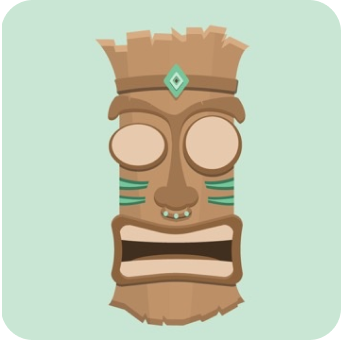
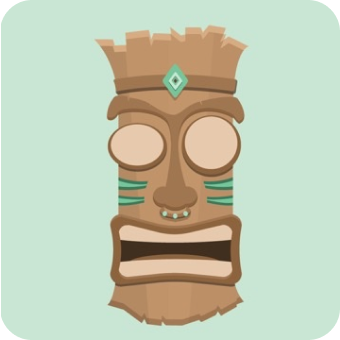
Pushed from Locofy Builder

diff --git a/index.html b/index.html
@@ -74,21 +74,21 @@
       <div class="frame-parent">
         <img class="frame-item" alt="" src="./public/frame-14621@2x.png" />
 
-        <img class="frame-item" alt="" src="./public/frame-14622@2x.png" />
+        <img class="frame-inner" alt="" src="./public/frame-14622@2x.png" />
 
         <img class="frame-child1" alt="" src="./public/frame-14623@2x.png" />
 
-        <img class="frame-item" alt="" src="./public/frame-14625@2x.png" />
+        <img class="frame-inner" alt="" src="./public/frame-14625@2x.png" />
 
         <img class="frame-child3" alt="" src="./public/frame-14620.svg" />
 
-        <img class="frame-item" alt="" src="./public/frame-14624@2x.png" />
+        <img class="frame-inner" alt="" src="./public/frame-14624@2x.png" />
 
-        <img class="frame-item" alt="" src="./public/frame-14626@2x.png" />
+        <img class="frame-inner" alt="" src="./public/frame-14626@2x.png" />
 
-        <img class="frame-item" alt="" src="./public/frame-14627@2x.png" />
+        <img class="frame-inner" alt="" src="./public/frame-14627@2x.png" />
 
-        <img class="frame-child7" alt="" src="./public/frame-14628@2x.png" />
+        <img class="frame-item" alt="" src="./public/frame-14628@2x.png" />
       </div>
     </div>
 
@@ -99,14 +99,14 @@
           window.open("https://wondersofwildlife.org/volunteer/");
         });
       }
-      
+
       var frameIcon = document.getElementById("frameIcon");
       if (frameIcon) {
         frameIcon.addEventListener("click", function () {
           window.open("https://medium.com/@evanhillenburg72");
         });
       }
-      
+
       var frameIcon1 = document.getElementById("frameIcon1");
       if (frameIcon1) {
         frameIcon1.addEventListener("click", function () {
@@ -128,10 +128,10 @@
           threshold: 0.15,
         }
       );
-      
+
       for (let i = 0; i < scrollAnimElements.length; i++) {
         observer.observe(scrollAnimElements[i]);
       }
-      </script>
+    </script>
   </body>
 </html>

diff --git a/index.css b/index.css
@@ -133,20 +133,22 @@
 .intro-wrapper.animate {
   animation: 0.5s ease-in 0s 1 normal forwards fade-in;
 }
-.frame-child1,
-.frame-item {
-  object-fit: contain;
-}
-.frame-child1,
-.frame-child3,
-.frame-child7,
 .frame-item {
   position: relative;
   width: 170px;
   height: 170px;
-}
-.frame-child7 {
   object-fit: cover;
+}
+.frame-child1,
+.frame-inner {
+  object-fit: contain;
+}
+.frame-child1,
+.frame-child3,
+.frame-inner {
+  position: relative;
+  width: 170px;
+  height: 170px;
 }
 .frame-parent,
 .test-3 {
@@ -225,6 +227,7 @@
     box-sizing: border-box;
     min-width: 200px;
   }
+  .frame-inner,
   .frame-item {
     min-width: 150px;
     min-height: 150px;
@@ -233,8 +236,7 @@
     height: 170px;
   }
   .frame-child1,
-  .frame-child3,
-  .frame-child7 {
+  .frame-child3 {
     min-width: 150px;
     min-height: 150px;
   }
